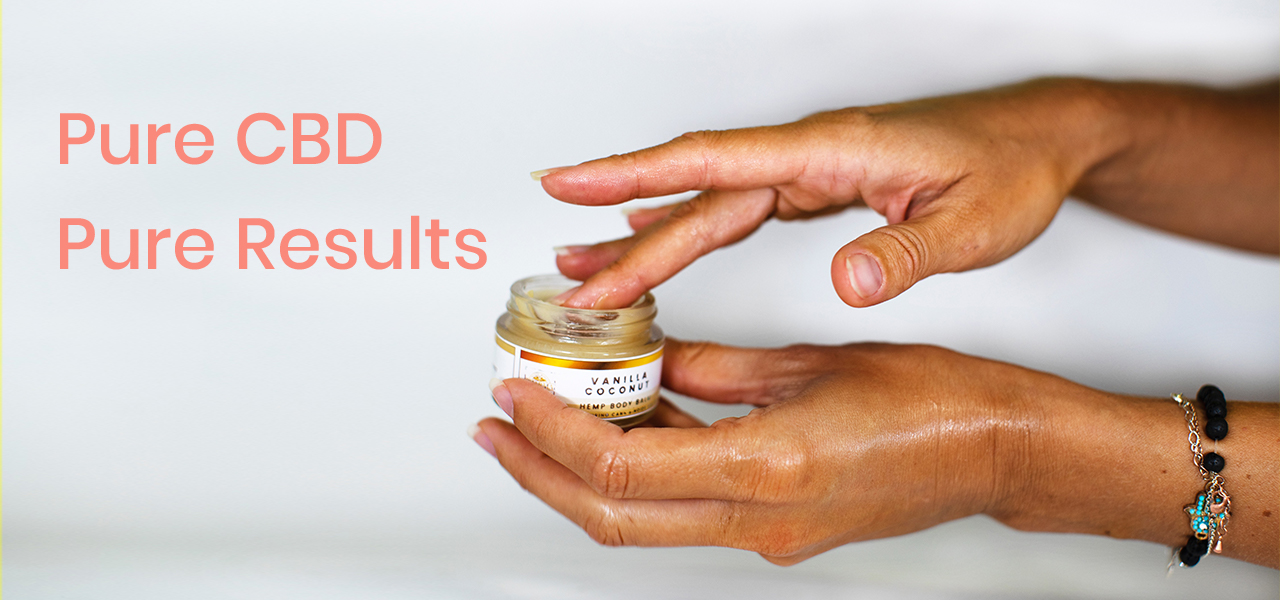
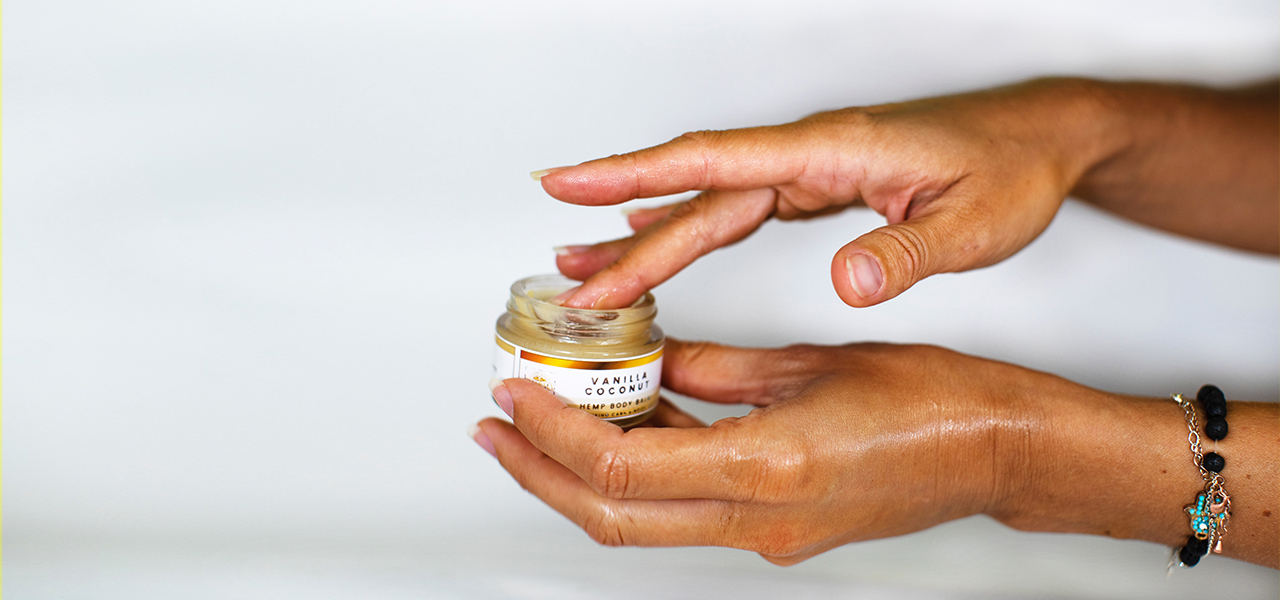
modified index.html and style.css

Changed region(s): [[0.0312, 0.36, 0.4062, 0.45], [0.0312, 0.18, 0.3125, 0.27]]

diff --git a/index.html b/index.html
@@ -3,6 +3,8 @@
 <head>
     <title>Эскиз-макет сайта</title>
     <meta charset="utf-8">
+    <link rel="preconnect" href="https://fonts.gstatic.com">
+    <link href="https://fonts.googleapis.com/css2?family=Poppins:wght@400;500;600&display=swap" rel="stylesheet">
     <link rel="stylesheet" type="text/css" href="style.css">
 </head>
 <body>
@@ -21,24 +23,18 @@
    </header>
        <main>
          <h1>Medical shop</h1>
-           Pure CBD 
-           Pure Results
-           <img src="images/banner/banner.jpg" alt="banner">
-             <div class="slider">
-                <button type="button" aria-label="previous slide">&#8592;</button>
-                <button type="button" aria-label="next slide">&#8594;</button>
-             </div>
+           <pre class="text">Pure CBD<br>Pure Results </pre>    
           <section>
              <h2>Product List</h2>
-               <p>Oils & Tinctures</p>
+               <p class="product">Oils & Tinctures</p>
                  <ul>
                     <li><img src="images/category/tincture.png" alt="Oils"></li>
                  </ul>
-               <p>Edibles & Drinks</p>
+               <p class="product">Edibles & Drinks</p>
                  <ul>
                     <li><img src="images/category/berry.png" alt="Edibles"></li>
                  </ul>
-               <p>Body & SkinCare</p>
+               <p class="product">Body & SkinCare</p>
                   <ul>
                     <li><img src="images/category/cream.png" alt="Body"></li>
                   </ul>
@@ -46,11 +42,11 @@
            <section>
               <h2>Featured Products</h2>
                  <ul>
-                   <li><img src="images/feautured/gummies.png" alt="CDB Vegan"><span>CDB Vegan Gummies</span>$50</li>
-                   <li><img src="images/feautured/oil.png" alt="Mint Oil"><span>Mint CBD Oil 1000mg</span>$150</li>
-                   <li><img src="images/feautured/topical.png" alt="Topical CBD"><span>3.4oz Topical CBD Ointment</span>$100</li>
-                   <li><img src="images/feautured/capsules.png" alt="CDB Capsules">
-                   <span>CDB Capsules</span><s>$70</s>$60</li>
+                   <li class="feautured"><img src="images/feautured/gummies.png" alt="CDB Vegan">CDB Vegan Gummies<span>$50</span></li>
+                   <li class="feautured"><img src="images/feautured/oil.png" alt="Mint Oil">Mint CBD Oil 1000mg<span>$150</span></li>
+                   <li class="feautured"><img src="images/feautured/topical.png" alt="Topical CBD">3.4oz Topical CBD Ointment<span>$100</span></li>
+                   <li class="feautured"><img src="images/feautured/capsules.png" alt="CDB Capsules">
+                   CDB Capsules<span><s>$70</s> $60</span></li>
                 </ul>
         </section>
         <section>
@@ -58,21 +54,21 @@
                  <ul>
                     <li><img src="images/blog/Rectangle51.jpg" alt="CBD bath Bombs"></li>
                     <li>Jan 02,2020</li>
-                    <li>The Ultimate ExpArience With CBD Bath Bombs</li>
+                    <li class="blog">The Ultimate ExpArience With CBD Bath Bombs</li>
                     <li><a href="#">Read More</a></li>
                     <li><img src="images/blog/Rectangle5.jpg" alt="CBD lollipips"></li>
                     <li>Jan 02,2020</li>
-                    <li>What are CBD lollipips?</li>
+                    <li class="blog">What are CBD lollipips?</li>
                     <li><a href="#">Read More</a></li>
                     <li><img src="images/blog/garten.jpg" alt="CBD Candy"></li>
                     <li>Jan 02,2020</li>
-                    <li>CBD Candy: Why Are Those Edibles Becoming So Popular?</li>
+                    <li class="blog">CBD Candy: Why Are Those Edibles Becoming So Popular?</li>
                     <li><a href="#">Read More</a></li> 
                   </ul>   
          </section>
          <section>
            	 <h2>Our Instagramm</h2>
-               <a href="#">Instagramm feet</a>
+               <a href="http://instagram.com" class="insta">#INSTAGRAMM FEED</a>
                  <ul>
                     <li><img src="images/insta/cbeo.jpg" alt="photo1"></li>
                     <li><img src="images/insta/unsplash.jpg" alt="photo2"></li>

diff --git a/style.css b/style.css
@@ -1,11 +1,16 @@
-body{
-	font-family: Arial, Helvetica, serif;
-}
 h1{
 	font-size: 2em;
 }
 h2{
 	text-align: center;
+	font-size: 24px;
+	font-family: 'Poppins', sans-serif;
+	font-weight: 500;
+}
+section.blog{
+	font-family: 'Poppins', sans-serif;
+	font-size: 20px;
+	font-weight: 400;
 }
 footer{
 	background-color:#fa897b;
@@ -27,10 +32,6 @@ a:hover{
 }
 p{
 	font-size: 15px;
-    
-}
-span{
-	font-size: 17px;
 }
 li{
 	list-style-type: none;
@@ -40,9 +41,24 @@ input{
 	padding: 10px;
 	margin-left: 10px;
 }
- .logo{
- 	width: 50px;
- 	height:50px;
+pre.text{
+	font-family: 'Poppins', sans-serif;
+	font-weight: 500;
+	font-size: 60px;
+	color: #fa897b;
+	background: url(images/banner/banner.jpg) no-repeat;
+	height: 600px;
+	background-color: yellow;
+}
+label{
+	font-family: 'Poppins', sans-serif;
+	font-weight: 400;
+	font-weight: 600;
+	font-size: 17px;
+}
+.logo{
+ 	width: 80px;
+ 	height:80px;
  	display: block;
  	margin: auto;
  	position:center;
@@ -59,7 +75,6 @@ input{
 	margin-left:30px;
 	list-style-type: none;	
 }
-
 }
 .footer{
 	text-decoration: none;
@@ -67,8 +82,8 @@ input{
 	
 }
 .one{
-	width: 50px;
- 	height:50px;
+	width: 80px;
+ 	height:80px;
  	display: block;
  	margin:left;
  	mix-blend-mode:multiply;	
@@ -76,5 +91,34 @@ input{
 .nav_li{
 	list-style-type: none;
 	color: white;
-	font-size: 12px;
+	font-family: 'Poppins', sans-serif;
+	font-size: 17px;
+	font-weight: 600;
+	font-weight: 400;
 }
+.nav-ul{
+	font-size: 20px;
+	font-family: 'Poppins', sans-serif;
+	font-weight: 400;
+}
+.product{
+	font-family: 'Poppins', sans-serif;
+	font-size: 25px;
+	font-weight: 400;
+}
+.feautured{
+	font-family: 'Poppins', sans-serif;
+	font-size: 15px;
+	font-weight: 500;
+}
+.blog{
+	font-family: 'Poppins', sans-serif;
+	font-size: 17px;
+	font-weight: 400;
+	font-weight: 500;
+}
+.insta{
+	font-family: 'Poppins', sans-serif;
+	font-weight: 500;
+}
+
